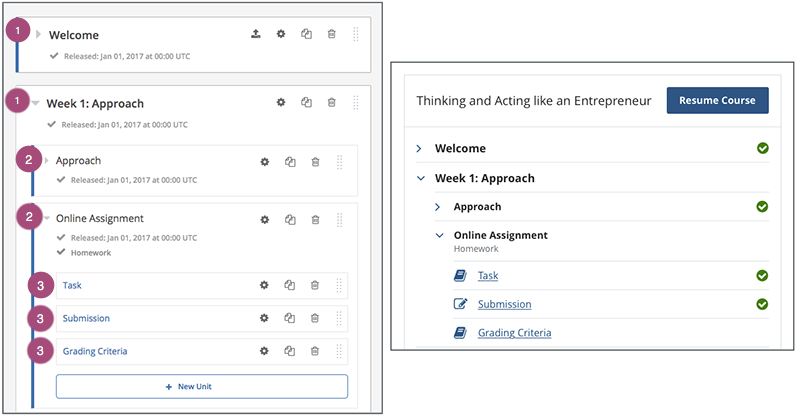
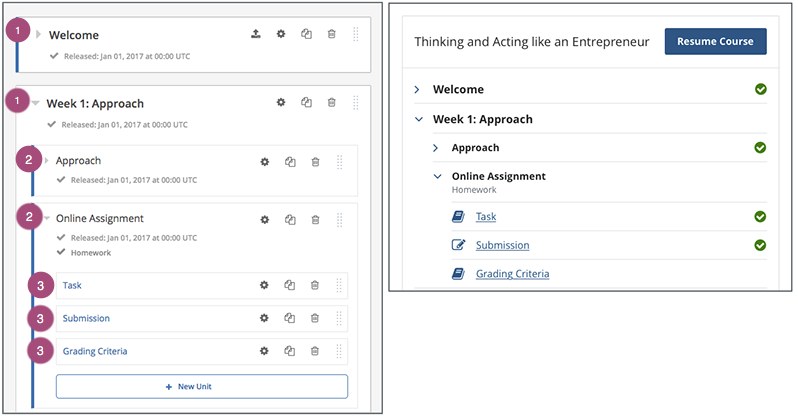
Update course author and learner docs for progress indicators

diff --git a/en_us/shared/students/SFD_content_availability.rst b/en_us/shared/students/SFD_content_availability.rst
@@ -4,28 +4,41 @@
 Accessing Course Content
 ##########################
 
-To access course content in a course that has :ref:`started<Start Date and
-Duration>`, open the course and go to the **Course** page.
+To access course content, make sure that the course has :ref:`started<Start
+Date and Duration>`, and then select **View Course** on your dashboard.
+
+The course opens to the **Course** page.
 
 Below any messages from the course team, you see the course outline.
 
 .. image:: ../../shared/images/course_nav_outline_startcourse.png
   :width: 600
-  :alt: The landing page of a course, showing the course outline and the Start
-     Course button.
+  :alt: The Course page, showing a welcome message and the course outline in
+      the left pane.
 
-Click **Start Course** to go to the first section of the course, or select any
-part of the course to jump to it. If you have already accessed or worked in
-the course, click **Resume Course** to jump to the part of the course that you
-last completed.
+At the top of the outline is a **Start Course** option if you have never
+accessed the course, or a **Resume Course** option if you have already accessed
+the course. Select **Start Course** to go to the first section of the course,
+or select any part of the course to jump to it. Click **Resume Course** to jump
+to the part of the course that you last completed.
 
+.. note::
+  When you complete a part of a course, a green check mark is visible on the
+  course outline. To complete a part of a course, you must complete all of the
+  following actions.
+
+  * View all of each video in the unit.
+  * Submit answers for all of the problems in the unit.
+  * View all HTML content in the unit for at least five seconds.
+
+  For more information, see :ref:`SFD Progress Indicators`.
 
 ********************************************************
 Course Content Can Be Released At Different Times
 ********************************************************
 
 Be aware that in some courses, not all of the the course content is available
-when the course starts. or even at any one time during the course. Instead,
+when the course starts, or even at any one time during the course. Instead,
 additional content might become available at different times in the course, or
 as you progress through the course.
 

diff --git a/en_us/shared/developing_course/course_outline.rst b/en_us/shared/developing_course/course_outline.rst
@@ -43,42 +43,15 @@ following message is visible.
 
 To add content, you :ref:`create a section<Create a Section>`.
 
-****************************************
-Understanding a Course Outline in Studio
-****************************************
+******************************
+Understanding a Course Outline
+******************************
 
-The following example shows a partial course outline in Studio, with
-indications for sections, subsections, and units. As you develop your course,
-it will begin to look like this example.
+Course authors build a course outline on the **Course Outline** page in Studio.
+Learners see this course outline in the LMS.
 
-.. image:: ../../../shared/images/outline-callouts.png
- :alt: An outline with callouts for sections, subsections, and units.
- :width: 500
-
-Courses are organized into the following levels.
-
-#. :ref:`Sections<Developing Course Sections>`
-#. :ref:`Subsections<Developing Course Subsections>`
-#. :ref:`Units<Developing Course Units>`
-
-:ref:`Components<Developing Course Components>` are not shown in the outline.
-You add or access components by selecting the units that contain them.
-
-The topics in the rest of this section provide more detail about the course
-outline.
-
-*****************************************
-View the Course Outline as a Learner
-*****************************************
-
-To view the Studio course outline the way a learner experiences the course
-outline, go to the **Course Outline** page in Studio, and then select either
-**Preview** or **View Live**. The **Course** page in the LMS opens
-automatically.
-
-When the **Course** page opens in the LMS, the course outline that is visible
-reflects the sections, subsections, and units on the **Course Outline** page in
-Studio.
+To view the course outline in the LMS, go to the **Course Outline** page in
+Studio, and then select either **Preview** or **View Live**.
 
 .. include:: ../../../shared/developing_course/outline_studio_lms.rst
 

diff --git a/en_us/shared/developing_course/outline_studio_lms.rst b/en_us/shared/developing_course/outline_studio_lms.rst
@@ -1,6 +1,5 @@
 In the following image, the Studio view of the course outline is on the left.
-On the right is the view of the course outline in the LMS, where learners view
-the course.
+On the right is the view of the course outline in the LMS.
 
 .. image:: ../../../shared/images/Course_Outline_LMS.png
    :alt: Sections, subsections, and units in the course outline in Studio and
@@ -9,9 +8,14 @@ the course.
 
 The numbers represent the following levels.
 
-#. Section
-#. Subsection
-#. Unit
+#. :ref:`Sections<Developing Course Sections>`
+#. :ref:`Subsections<Developing Course Subsections>`
+#. :ref:`Units<Developing Course Units>`
+
+.. note::
+    The **Course Outline** page does not show :ref:`components<Developing
+    Course Components>`. You add or access components by selecting the units
+    that contain the components.
 
 ===========================
 Course Progress Information

diff --git a/en_us/shared/students/SFD_start_course.rst b/en_us/shared/students/SFD_start_course.rst
@@ -1,6 +1,7 @@
 .. This file is used in both the edX and Open edX versions of the Learner's Guide. Some content is conditionalized.
 
 
+
 .. _SFD Starting a Course:
 
 ********************
@@ -72,6 +73,10 @@ Availability`
 ===============
 Start a Course
 ===============
+
+.. The content in the "Start a Course" section is inaccurate. It has been
+.. superseded by https://support.edx.org/hc/en-us/articles/207200767-How-do-I
+.. -begin-my-course-.
 
 To start work in a course that is in progress, follow these steps.
 

diff --git a/en_us/shared/students/SFD_check_progress.rst b/en_us/shared/students/SFD_check_progress.rst
@@ -10,6 +10,8 @@ This topic describes how to check and understand your progress in a course.
   :local:
   :depth: 2
 
+.. _SFD Progress Indicators:
+
 *******************
 Progress Indicators
 *******************
